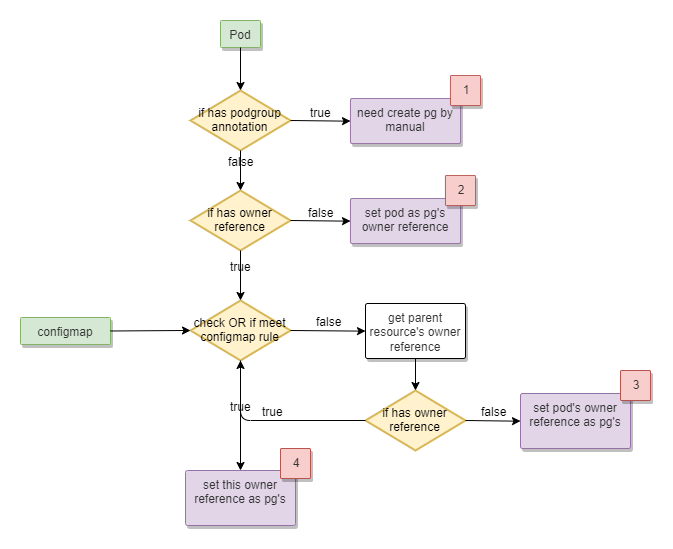
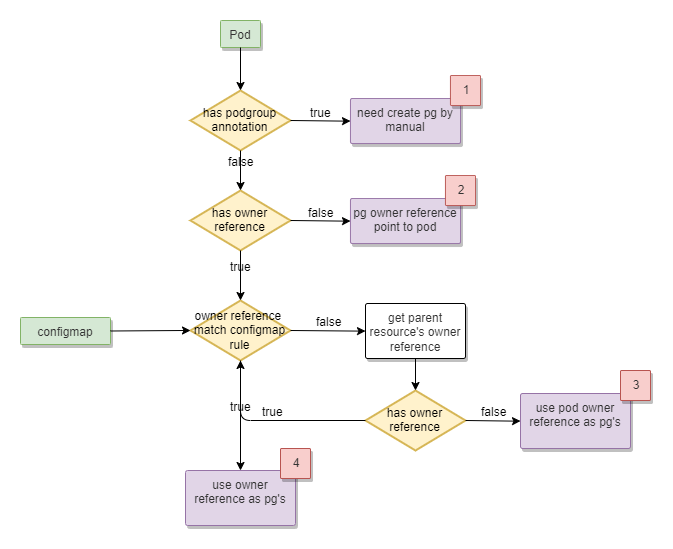
Signed-off-by: wpeng102 <wpeng102@126.com>
update doc

diff --git a/docs/design/Enhance-Generate-PodGroup-OwnerReferences-for-Normal-Pod.md b/docs/design/Enhance-Generate-PodGroup-OwnerReferences-for-Normal-Pod.md
@@ -1,9 +1,9 @@
 # Enhance Generate PodGroup OwnerReferences for Normal Pod
 
 ## Background
-Volcano scheduler can schedule normal workload such as single Pod, Deployment, CronJob, Statefulset etc., and other CRD workflow. For these normal pod, volcano controller will create a podgroup for these workload. When it is a single Pod, controller will set the pod as podgroup's `ownerReferences`, otherwise controller will set pod's `ownerReferences` as the podgroup's `ownerReferences`. 
+Volcano scheduler can schedule normal workload such as single Pod, Deployment, CronJob, Statefulset etc., and other CRD workflow. For these normal pod, volcano controller will create a podgroup for these workload. When it is a single Pod, controller will set podgroup `ownerReferences` points to this pod, otherwise controller will use pod`ownerReferences` as the podgroup's. 
 
-For issue [2143](https://github.com/volcano-sh/volcano/issues/2143) when deployment update, it will create new replicaset and volcano controller will create new podgroup for this replicaset. After several times update, the Deployment has many `Inqueue` podgroups. For example, it is not reasonable for one Deployment has four podgourps and three podgroups is in `Inqueue` status which will consume resources in `overcommit` plugin.
+For issue [2143](https://github.com/volcano-sh/volcano/issues/2143) when deployment update, it will create new replicaset and volcano controller will create new podgroup for replicaset. After several times update, the Deployment has many `Inqueue` podgroups. For example, it is not reasonable for one Deployment has four podgourps(three podgroups is in `Inqueue` and one in `Running` status) which consume resources in `overcommit` plugin.
 
 <table>
 	<tr>
@@ -30,10 +30,14 @@ For issue [2143](https://github.com/volcano-sh/volcano/issues/2143) when deploym
 	</tr>
 </table>
 
+Let review volcano controller create podgroup process:
+
+![set pg ownerreference original-process](./images/original-process.png) 
+
 ## Solution
 Some workload control pod directly such as Job, SparkApplication etc. For these workload, we can use the pod's `ownerReferences` as podgroup's `ownerReferences`. Some workload will control pod by other resources such as Deployment controls pod by Replicaset or Workflow controls pod by other resources.
 
-Volcano controller will introduce a configmap which stores GVK(group/version/kind) array.
+Volcano controller will introduce a configmap which stores (apiversion/kind/adjust-level) array. apiversion and kind can consist of GVK. adjust-level is integer which is used for workflow cases. 
 
 ```
 apiVersion: v1
@@ -43,18 +47,31 @@ metadata:
   namespace: volcano-system
 data:
   volcano-controller.conf: |
-    podgroupLevel:
+    podgroup-level-rules:
     - apiversion: apps/v1                    
       kind: deployment
+      adjust-level: 0
     - apiversion: batch/v1                    
       kind: job
+      adjust-level: 0
     - apiversion: argoproj.io/v1alpha1                   
       kind: workflow
+      adjust-level: -1
 ```
+
+In workflow case, one workflow consists of many different resources (job/application) and job/application consists of pods. So the podgroup should match with job/application level instead of workflow level. We can use workflow GVK and `adjust-level: -1` to achieve this purpose. "-1" means podgroup should just one level below this GVK.
+
 
 When controller need create a podgroup, it will check the pod `ownerReferences` apiversion and kind if match one of the configmap rule. If yes, will use this `ownerReferences` as podgroup's `ownerReferences`; if not, controller will use `dynamicClient` to check parent resource `ownerReferences` recursively until get the one match the configmap rule or the root `ownerReferences`.
  
 ![set pg ownerreference workflow](./images/workflow.png) 
+
+### DiscoveryClient & DynamicClient
+From the `ownerReferences`, we can get or create a GVK and owner resource name. 
+Discovery client is foucs on the k8s resources, it can get GVR from GVK. When get GVR and owner resource name, we can use Dynamic client to get the owner resource's `ownerReferences`.
+
+### RBAC
+
 
 ## User Cases
 Configmap:
@@ -69,8 +86,10 @@ data:
     podgroupLevel:
     - apiversion: apps/v1                    
       kind: deployment
-    - apiversion: batch/v1                    
-      kind: job
+      adjust-level: 0
+    - apiversion: argoproj.io/v1alpha1                   
+      kind: workflow
+      adjust-level: -1
 ```
 ### 1. Single pod workload with scheduling.k8s.io/group-name annotation
 Pod has scheduling.k8s.io/group-name annotation, controller will not create pg for it.
@@ -78,7 +97,7 @@ Pod has scheduling.k8s.io/group-name annotation, controller will not create pg f
 ### 2. Single pod workload without scheduling.k8s.io/group-name annotation
 Pod does not have owner reference, controller will create pg and set this pod as pg's owner reference.
 
-### 3. Complex workflow
+### 3. Argo k8s job workflow
 Consider argo workflow such as: 
 ```
 apiVersion: argoproj.io/v1alpha1
@@ -110,7 +129,7 @@ spec:
               restartPolicy: Never
           backoffLimit: 4
 ```
-Pod's owner reference points to a Job and Job's owner reference points to a Workflow. Because the configmap does not contain any information about workflow and job, finally controller will create a pg and use pod's owner reference (Job) information as pg's owner reference.
+Workflow create a Job and Pod's owner reference points to a Job. Because the configmap does not contain any information about workflow and job, finally controller will create a pg and use pod's owner reference (Job) information as pg's owner reference.
 
 ### 4. Deployment workload
-Pod's owner reference points to a ReplicaSet and ReplicaSet's owner reference points to Deployment. Controller will search owner reference recursively, finally find the ReplicaSet's owner reference (Deployment) match one of the configmap rule. Controller will set this Deployment pg's owner reference.
+Pod's owner reference points to a ReplicaSet and ReplicaSet's owner reference points to Deployment. Controller will search owner reference recursively, finally find the ReplicaSet's owner reference (Deployment) match one of the configmap rule. Controller will use this Deployment pg's owner reference.
